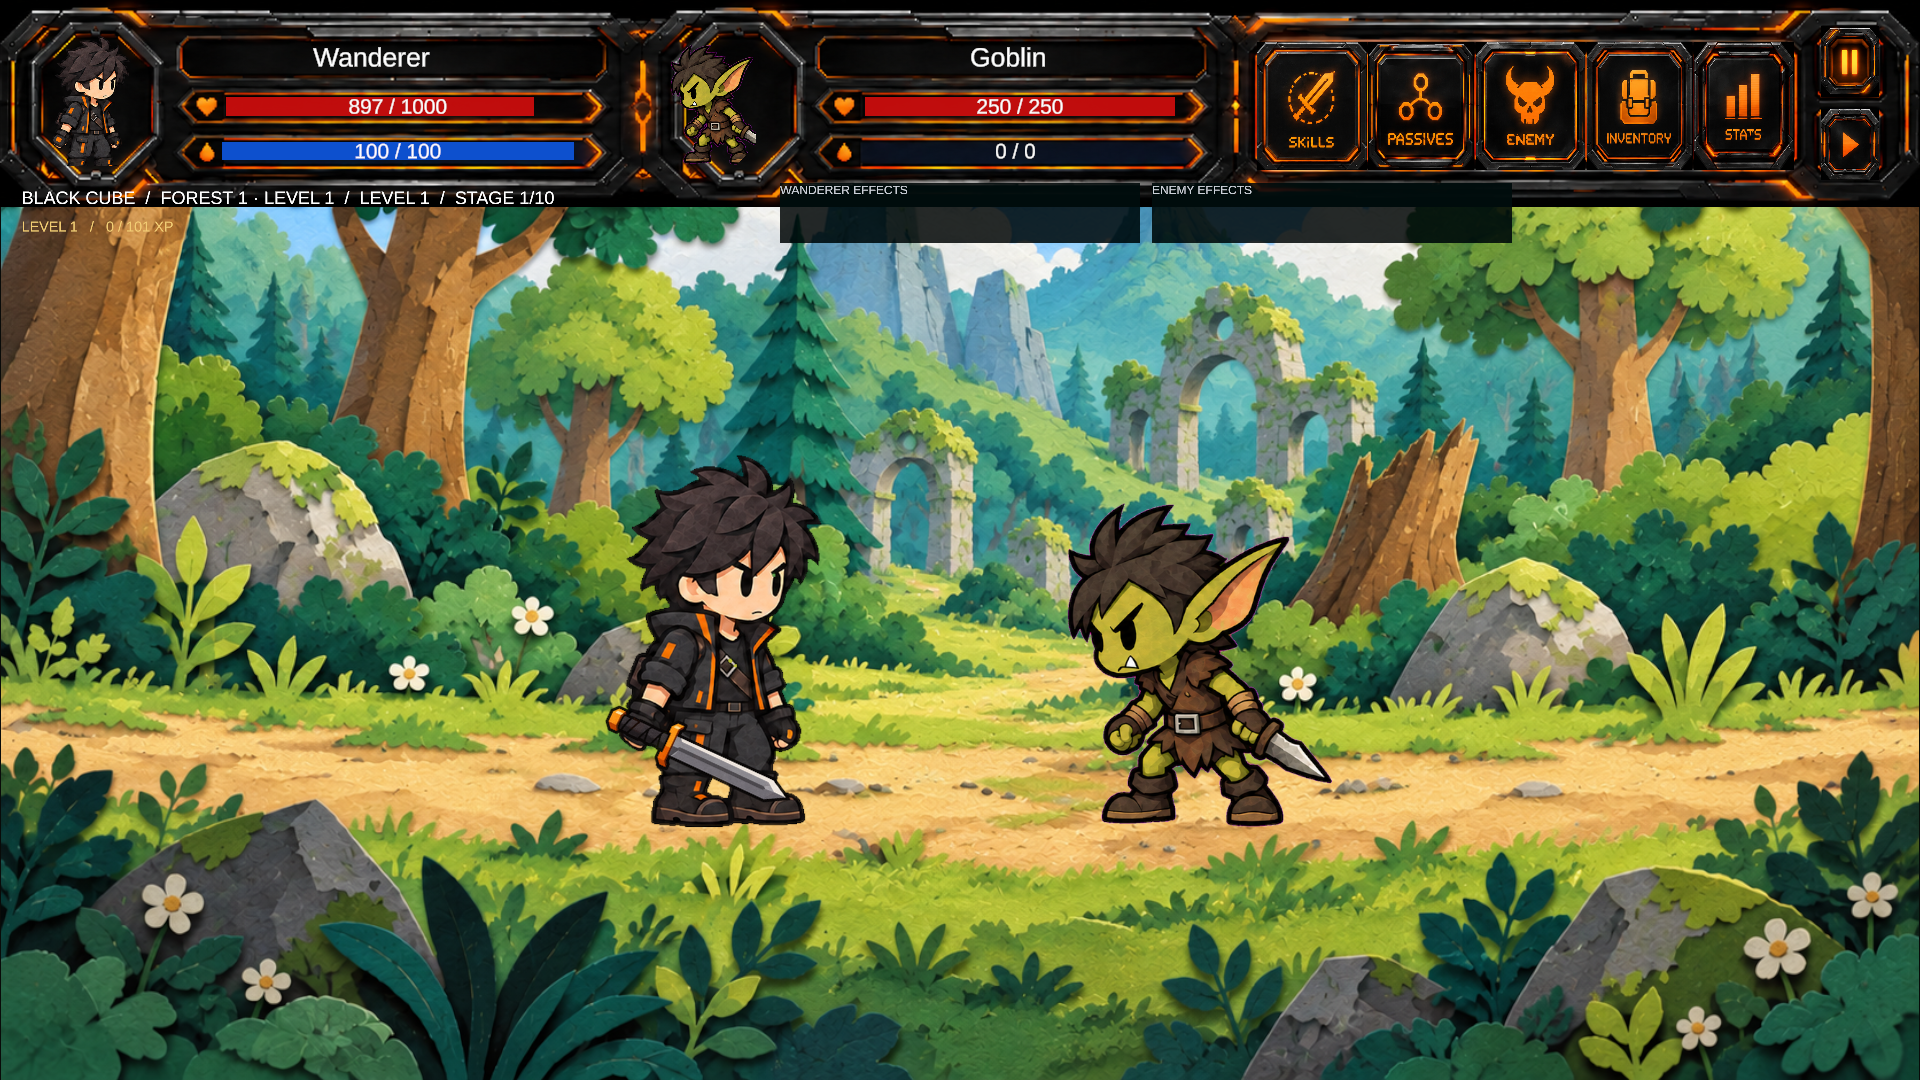
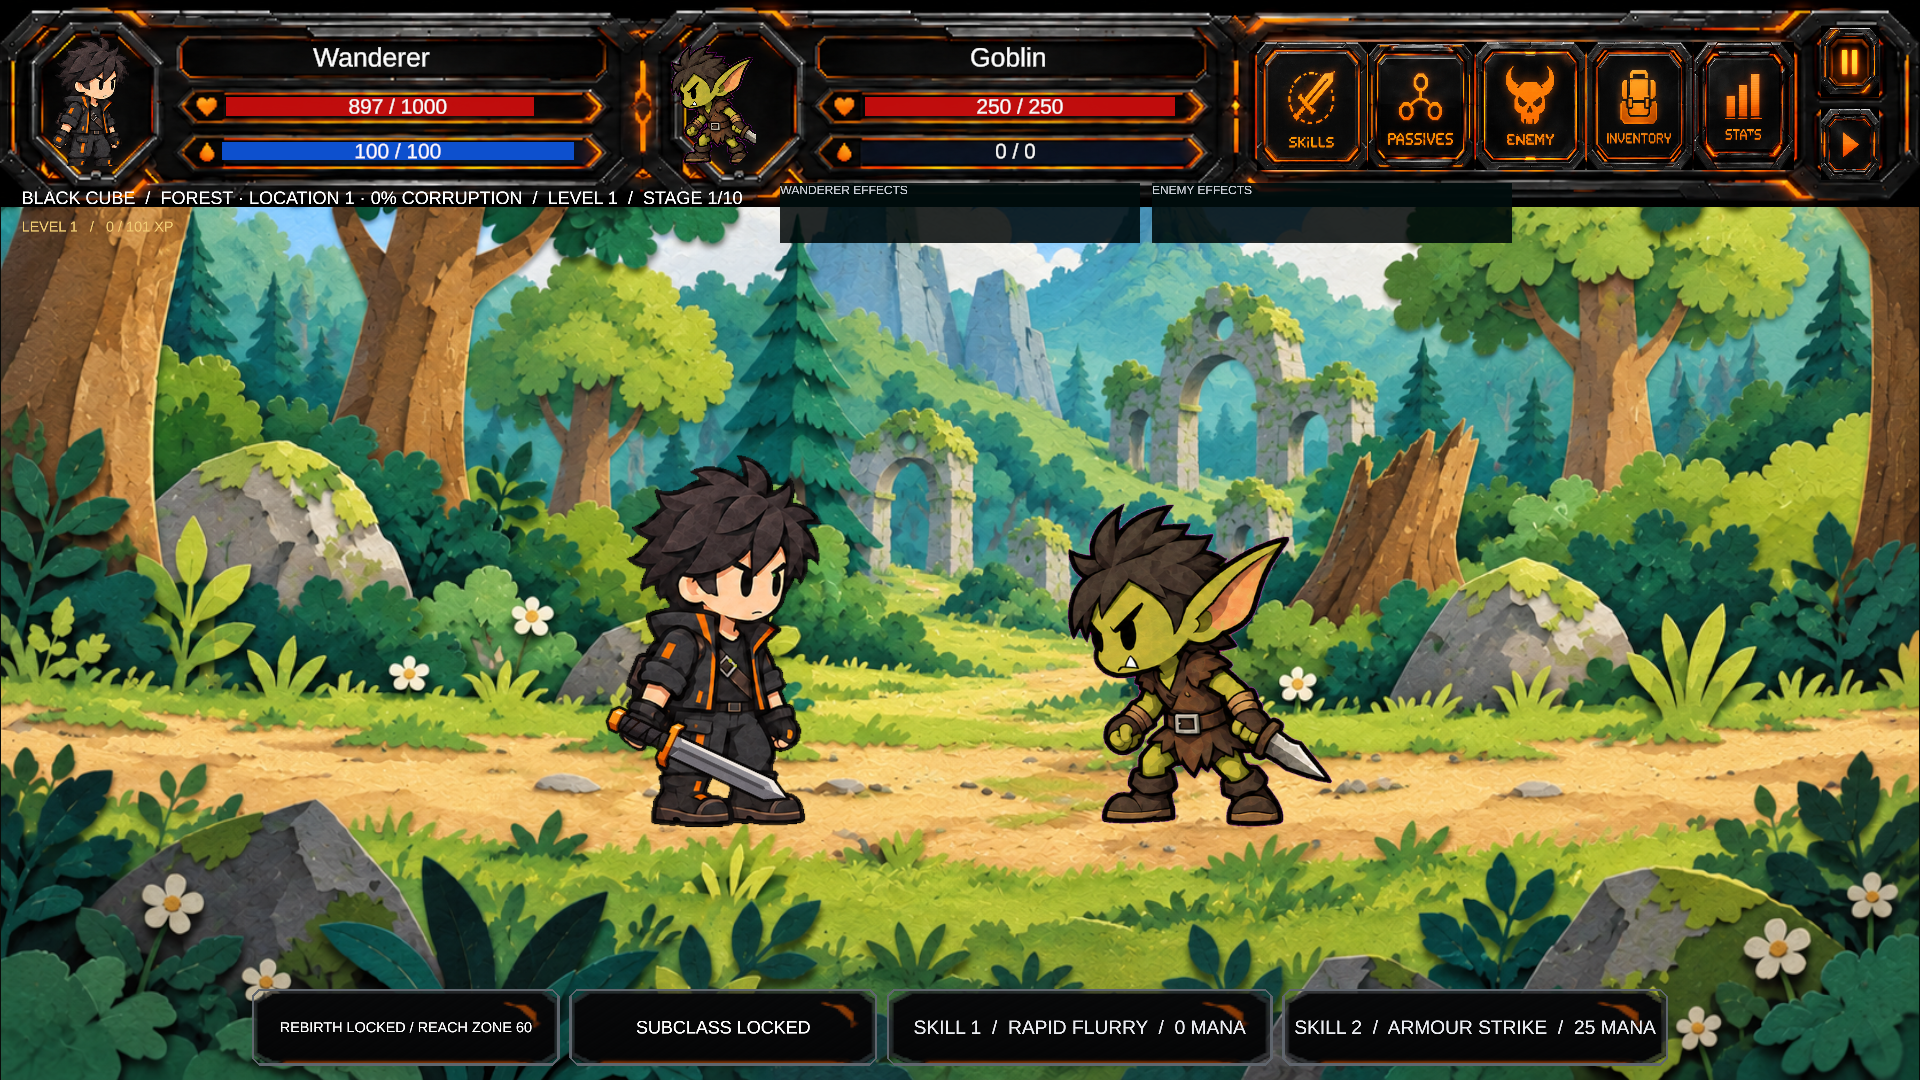
Step 18.5A: fix responsive gameplay HUD layout

Changed region(s): [[0.125, 0.9167, 0.875, 1.0], [0.1875, 0.1528, 0.2812, 0.2139]]

diff --git a/Assets/Scripts/BottomActionBarLayout.cs b/Assets/Scripts/BottomActionBarLayout.cs
@@ -1,0 +1,45 @@
+// Responsive shared owner for the runtime-built bottom HUD controls.
+using System.Collections.Generic;
+using TMPro;
+using UnityEngine;
+using UnityEngine.UI;
+
+public sealed class BottomActionBarLayout:MonoBehaviour
+{
+    static BottomActionBarLayout instance;
+    readonly SortedDictionary<int,RectTransform> controls=new();
+    public IReadOnlyCollection<RectTransform> Controls=>controls.Values;
+    void Awake(){instance=this;Configure();}
+    void OnDestroy(){if(instance==this)instance=null;}
+    void Configure()
+    {
+        var rect=(RectTransform)transform;rect.anchorMin=rect.anchorMax=new Vector2(.5f,0);rect.pivot=new Vector2(.5f,0);rect.anchoredPosition=new Vector2(0,12);rect.sizeDelta=new Vector2(1180,64);
+        var layout=GetComponent<HorizontalLayoutGroup>()??gameObject.AddComponent<HorizontalLayoutGroup>();layout.padding=new RectOffset(0,0,0,0);layout.spacing=8;layout.childAlignment=TextAnchor.MiddleCenter;layout.childControlWidth=true;layout.childControlHeight=true;layout.childForceExpandWidth=false;layout.childForceExpandHeight=true;
+    }
+    public static BottomActionBarLayout For(Canvas canvas)
+    {
+        if(instance!=null&&instance)return instance;if(canvas==null)return null;
+        var existing=canvas.transform.Find("Bottom Action Bar");if(existing!=null)return instance=existing.GetComponent<BottomActionBarLayout>()??existing.gameObject.AddComponent<BottomActionBarLayout>();
+        var go=new GameObject("Bottom Action Bar",typeof(RectTransform),typeof(HorizontalLayoutGroup),typeof(BottomActionBarLayout));go.transform.SetParent(canvas.transform,false);return instance=go.GetComponent<BottomActionBarLayout>();
+    }
+    public static void Attach(Button button,int order,float preferredWidth)
+    {
+        if(button==null)return;Canvas canvas=button.GetComponentInParent<Canvas>();var bar=For(canvas);if(bar==null)return;
+        RectTransform rect=(RectTransform)button.transform;rect.SetParent(bar.transform,false);rect.anchorMin=rect.anchorMax=new Vector2(.5f,.5f);rect.offsetMin=rect.offsetMax=Vector2.zero;
+        var element=button.GetComponent<LayoutElement>()??button.gameObject.AddComponent<LayoutElement>();element.minWidth=Mathf.Min(110,preferredWidth);element.preferredWidth=preferredWidth;element.flexibleWidth=.2f;element.minHeight=54;element.preferredHeight=64;
+        foreach(var old in new List<int>(bar.controls.Keys))if(bar.controls[old]==null)bar.controls.Remove(old);bar.controls[order]=rect;
+        int sibling=0;foreach(var pair in bar.controls){pair.Value.SetSiblingIndex(sibling++);var text=pair.Value.GetComponentInChildren<TMP_Text>(true);if(text!=null){text.enableAutoSizing=true;text.fontSizeMin=9;text.fontSizeMax=Mathf.Max(12,text.fontSize);text.textWrappingMode=TextWrappingModes.NoWrap;text.overflowMode=TextOverflowModes.Ellipsis;}}
+        LayoutRebuilder.ForceRebuildLayoutImmediate((RectTransform)bar.transform);
+    }
+}
+
+public static class HUDRectOverlapValidator
+{
+    public static List<string> FindOverlaps(IEnumerable<RectTransform> rects,float tolerance=.5f)
+    {
+        var active=new List<RectTransform>();if(rects!=null)foreach(var rect in rects)if(rect!=null&&rect.gameObject.activeInHierarchy)active.Add(rect);var result=new List<string>();
+        for(int i=0;i<active.Count;i++)for(int j=i+1;j<active.Count;j++){Rect a=WorldRect(active[i]),b=WorldRect(active[j]);if(Mathf.Min(a.xMax,b.xMax)-Mathf.Max(a.xMin,b.xMin)>tolerance&&Mathf.Min(a.yMax,b.yMax)-Mathf.Max(a.yMin,b.yMin)>tolerance)result.Add(active[i].name+" overlaps "+active[j].name);}
+        return result;
+    }
+    static Rect WorldRect(RectTransform rect){var corners=new Vector3[4];rect.GetWorldCorners(corners);return Rect.MinMaxRect(corners[0].x,corners[0].y,corners[2].x,corners[2].y);}
+}

diff --git a/Assets/Scripts/PlayerSkillMenuUI.cs b/Assets/Scripts/PlayerSkillMenuUI.cs
@@ -22,8 +22,8 @@ public sealed class PlayerSkillMenuUI:MonoBehaviour
     void Build()
     {
         Transform canvas=hud.GetComponentInParent<Canvas>().transform;
-        for(int i=0;i<2;i++){int index=i;buttons[i]=Button(canvas,"Weapon Skill "+(i+1),new Vector2(.29f+i*.22f,.012f),new Vector2(.49f+i*.22f,.09f),out labels[i]);buttons[i].onClick.AddListener(()=>{controller.TryQueueWeaponSkill(index);Refresh();});}
-        rageFinisherButton=Button(canvas,"Rage Finisher",new Vector2(.72f,.012f),new Vector2(.94f,.09f),out rageFinisherLabel);rageFinisherButton.onClick.AddListener(()=>{rage?.TryArmFinisher();Refresh();});
+        for(int i=0;i<2;i++){int index=i;buttons[i]=Button(canvas,"Weapon Skill "+(i+1),new Vector2(.29f+i*.22f,.012f),new Vector2(.49f+i*.22f,.09f),out labels[i]);buttons[i].onClick.AddListener(()=>{controller.TryQueueWeaponSkill(index);Refresh();});BottomActionBarLayout.Attach(buttons[i],30+i*10,255);}
+        rageFinisherButton=Button(canvas,"Rage Finisher",new Vector2(.72f,.012f),new Vector2(.94f,.09f),out rageFinisherLabel);rageFinisherButton.onClick.AddListener(()=>{rage?.TryArmFinisher();Refresh();});BottomActionBarLayout.Attach(rageFinisherButton,50,240);
         panel=Box(canvas,"Weapon Skill Information",new Vector2(.23f,.3f),new Vector2(.77f,.7f),Panel);var c=panel.AddComponent<Canvas>();c.overrideSorting=true;c.sortingOrder=110;panel.AddComponent<GraphicRaycaster>();
         var title=Text(panel.transform,"Title",new Vector2(.06f,.68f),new Vector2(.94f,.9f),30);title.text="WEAPON SKILLS";title.alignment=TextAlignmentOptions.Center;
         var body=Text(panel.transform,"Body",new Vector2(.08f,.25f),new Vector2(.92f,.67f),18);body.text="Each weapon type supplies exactly two active-skill slots. Final V1 assignments are intentionally TBD; developer fixtures can exercise this pipeline without creating production mappings.";body.alignment=TextAlignmentOptions.Center;

diff --git a/Assets/Scripts/RelicSystem.cs b/Assets/Scripts/RelicSystem.cs
@@ -307,7 +307,7 @@ public sealed class RebirthConfirmationUI:MonoBehaviour
     public void Build()
     {
         if(openButton!=null)return;
-        openButton=Button(transform,"REBIRTH",new Vector2(.015f,.015f),new Vector2(.13f,.075f),Open,out openLabel);
+        openButton=Button(transform,"REBIRTH",new Vector2(.015f,.015f),new Vector2(.13f,.075f),Open,out openLabel);BottomActionBarLayout.Attach(openButton,10,190);
         confirmation=new GameObject("Rebirth confirmation",typeof(RectTransform),typeof(Image));confirmation.transform.SetParent(transform,false);var rect=(RectTransform)confirmation.transform;rect.anchorMin=new Vector2(.3f,.3f);rect.anchorMax=new Vector2(.7f,.7f);rect.offsetMin=rect.offsetMax=Vector2.zero;confirmation.GetComponent<Image>().color=new Color(.03f,.025f,.04f,.98f);
         var message=Label(confirmation.transform,"REBIRTH?\nReset all run progress and ordinary items. Relics remain permanent.",15);Place(message.rectTransform,.06f,.42f,.94f,.94f);
         Button(confirmation.transform,"CONFIRM",new Vector2(.08f,.08f),new Vector2(.47f,.34f),Confirm,out _);

diff --git a/Assets/Scripts/SubclassMenuUI.cs b/Assets/Scripts/SubclassMenuUI.cs
@@ -10,7 +10,7 @@ public sealed class SubclassMenuUI:MonoBehaviour
     void Start()
     {
         hud=GetComponent<PaperBattleHUD>();var canvas=GetComponentInParent<Canvas>();if(canvas==null)return;
-        open=Button(canvas.transform,"Subclass",new Vector2(.03f,.012f),new Vector2(.21f,.09f),out openLabel);open.onClick.AddListener(Toggle);
+        open=Button(canvas.transform,"Subclass",new Vector2(.03f,.012f),new Vector2(.21f,.09f),out openLabel);open.onClick.AddListener(Toggle);BottomActionBarLayout.Attach(open,20,190);
         panel=Box(canvas.transform,"Subclass Selection",new Vector2(.22f,.22f),new Vector2(.78f,.78f),new Color(.03f,.035f,.05f,.99f));var sorting=panel.AddComponent<Canvas>();sorting.overrideSorting=true;sorting.sortingOrder=120;panel.AddComponent<GraphicRaycaster>();
         title=Text(panel.transform,"Title",new Vector2(.08f,.77f),new Vector2(.92f,.94f),28);title.alignment=TextAlignmentOptions.Center;
         description=Text(panel.transform,"Description",new Vector2(.1f,.36f),new Vector2(.9f,.7f),17);description.alignment=TextAlignmentOptions.Center;
